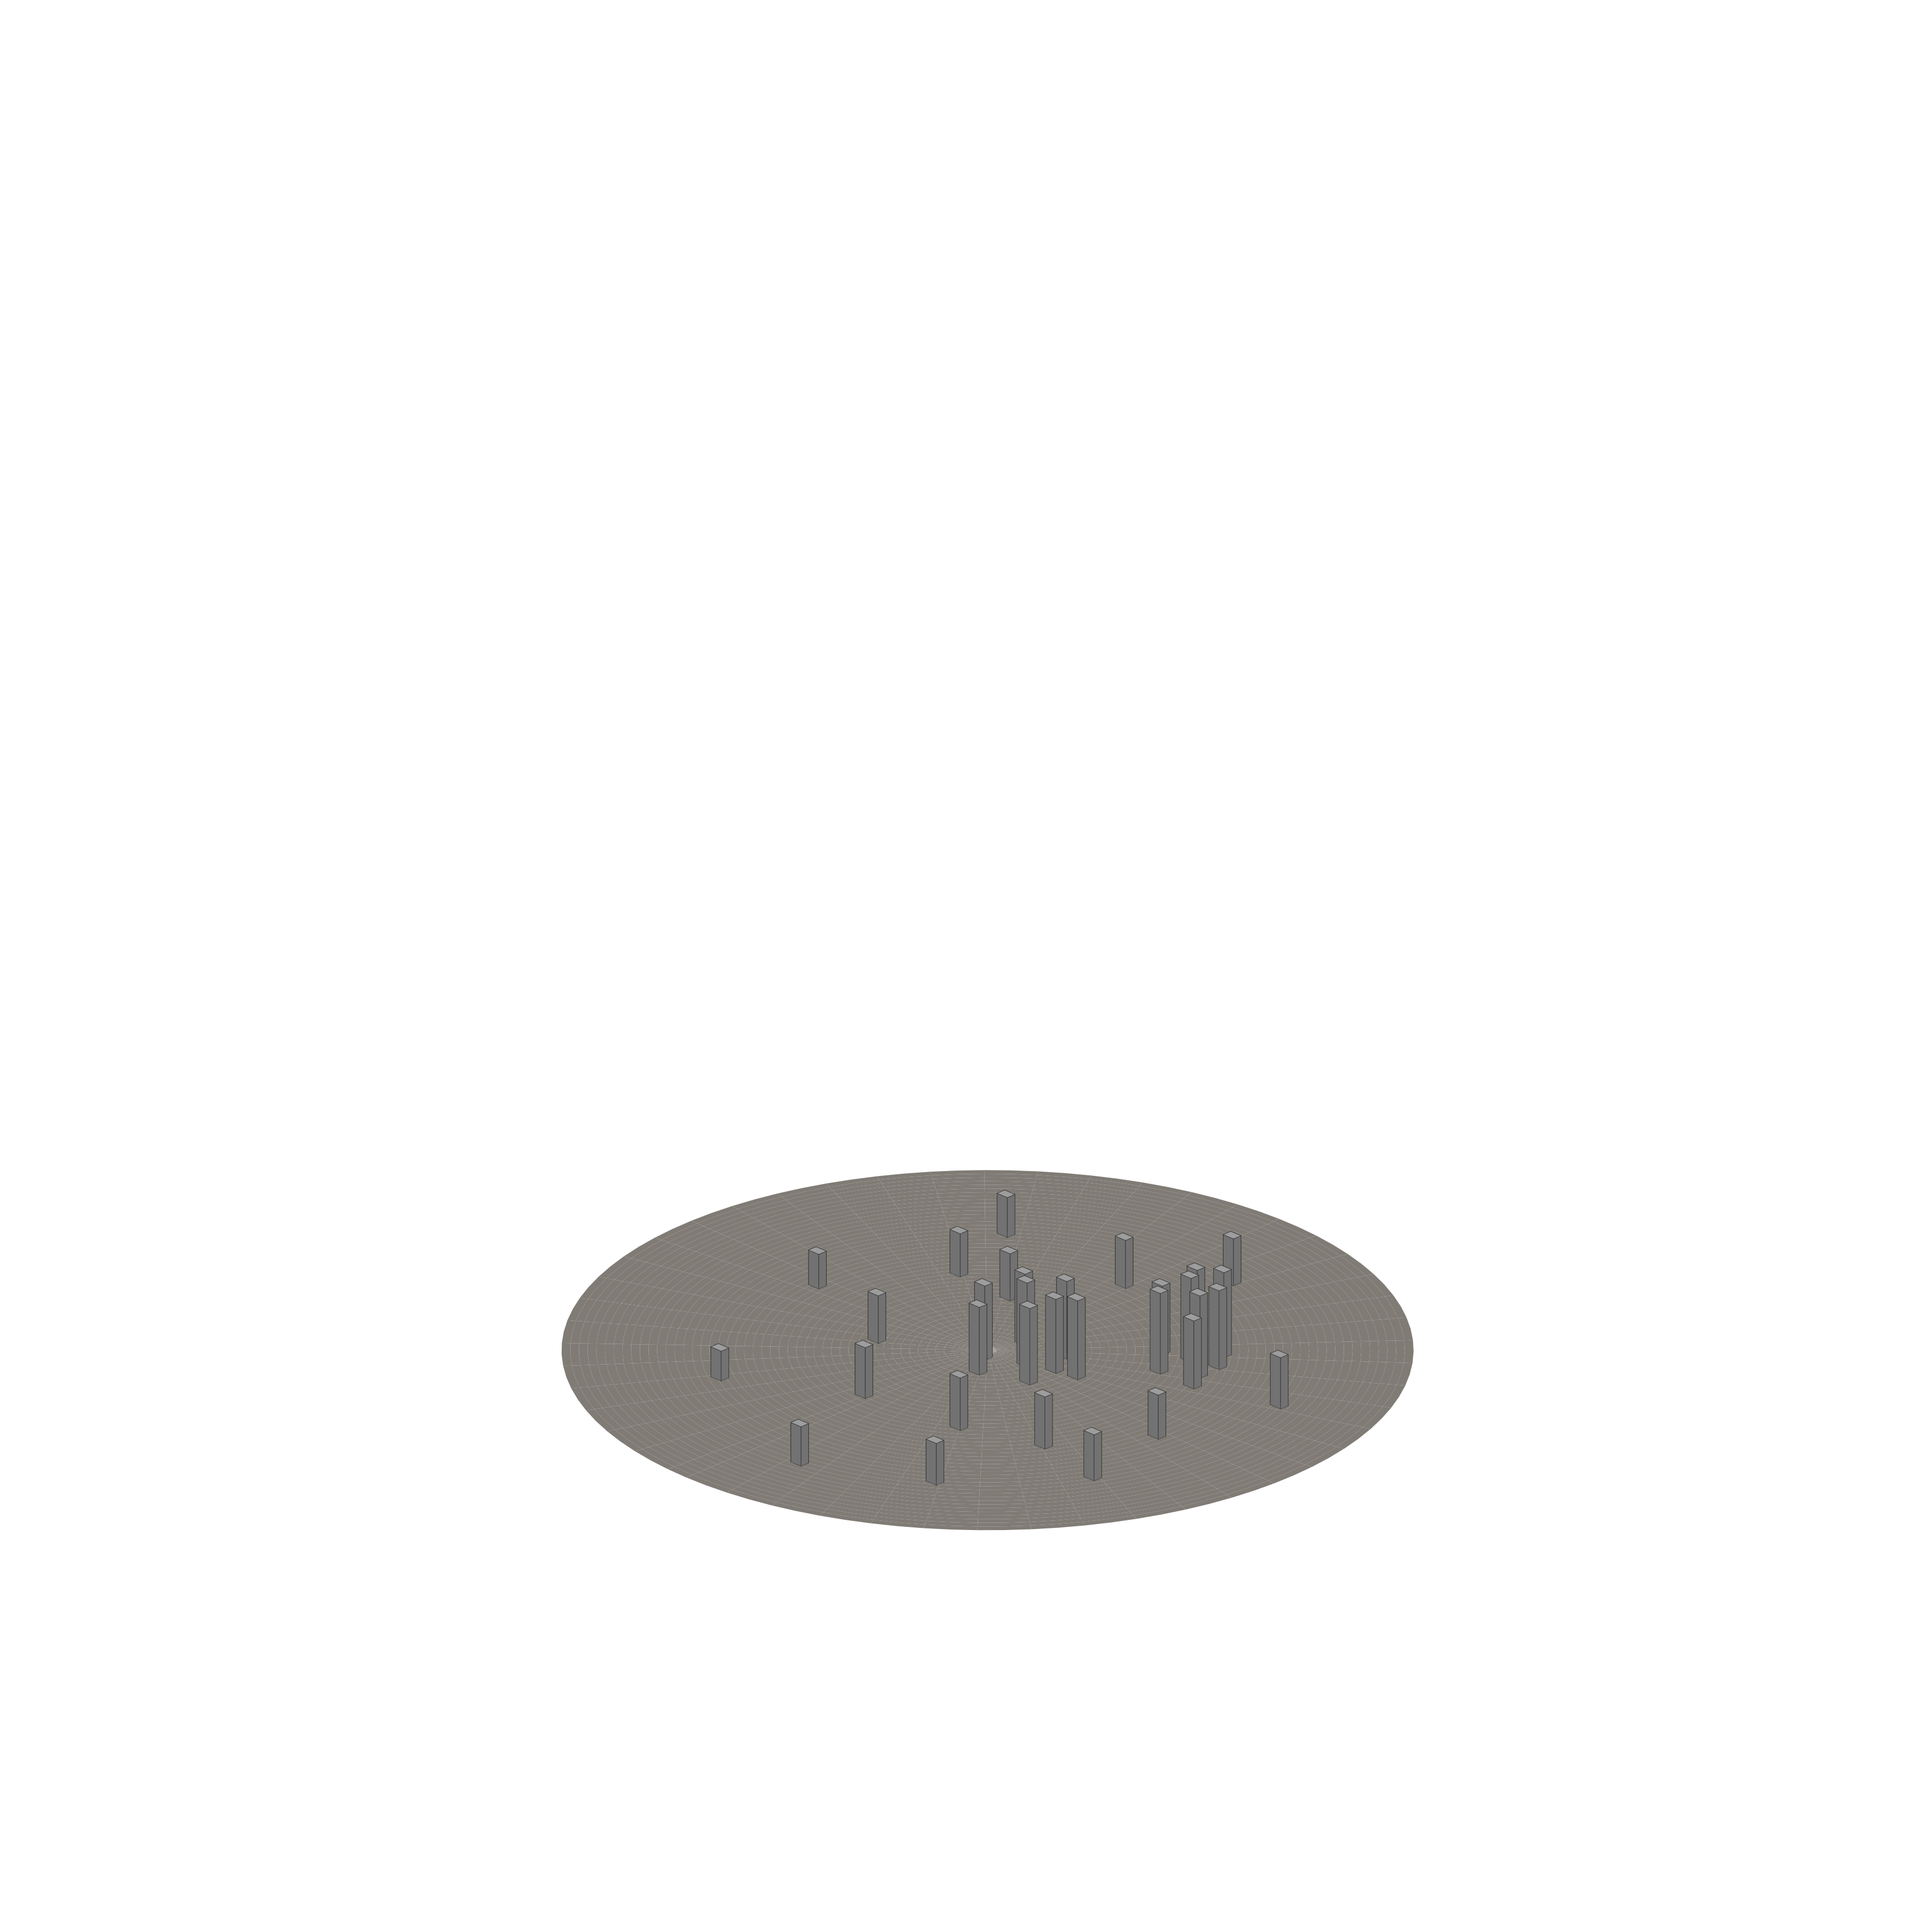
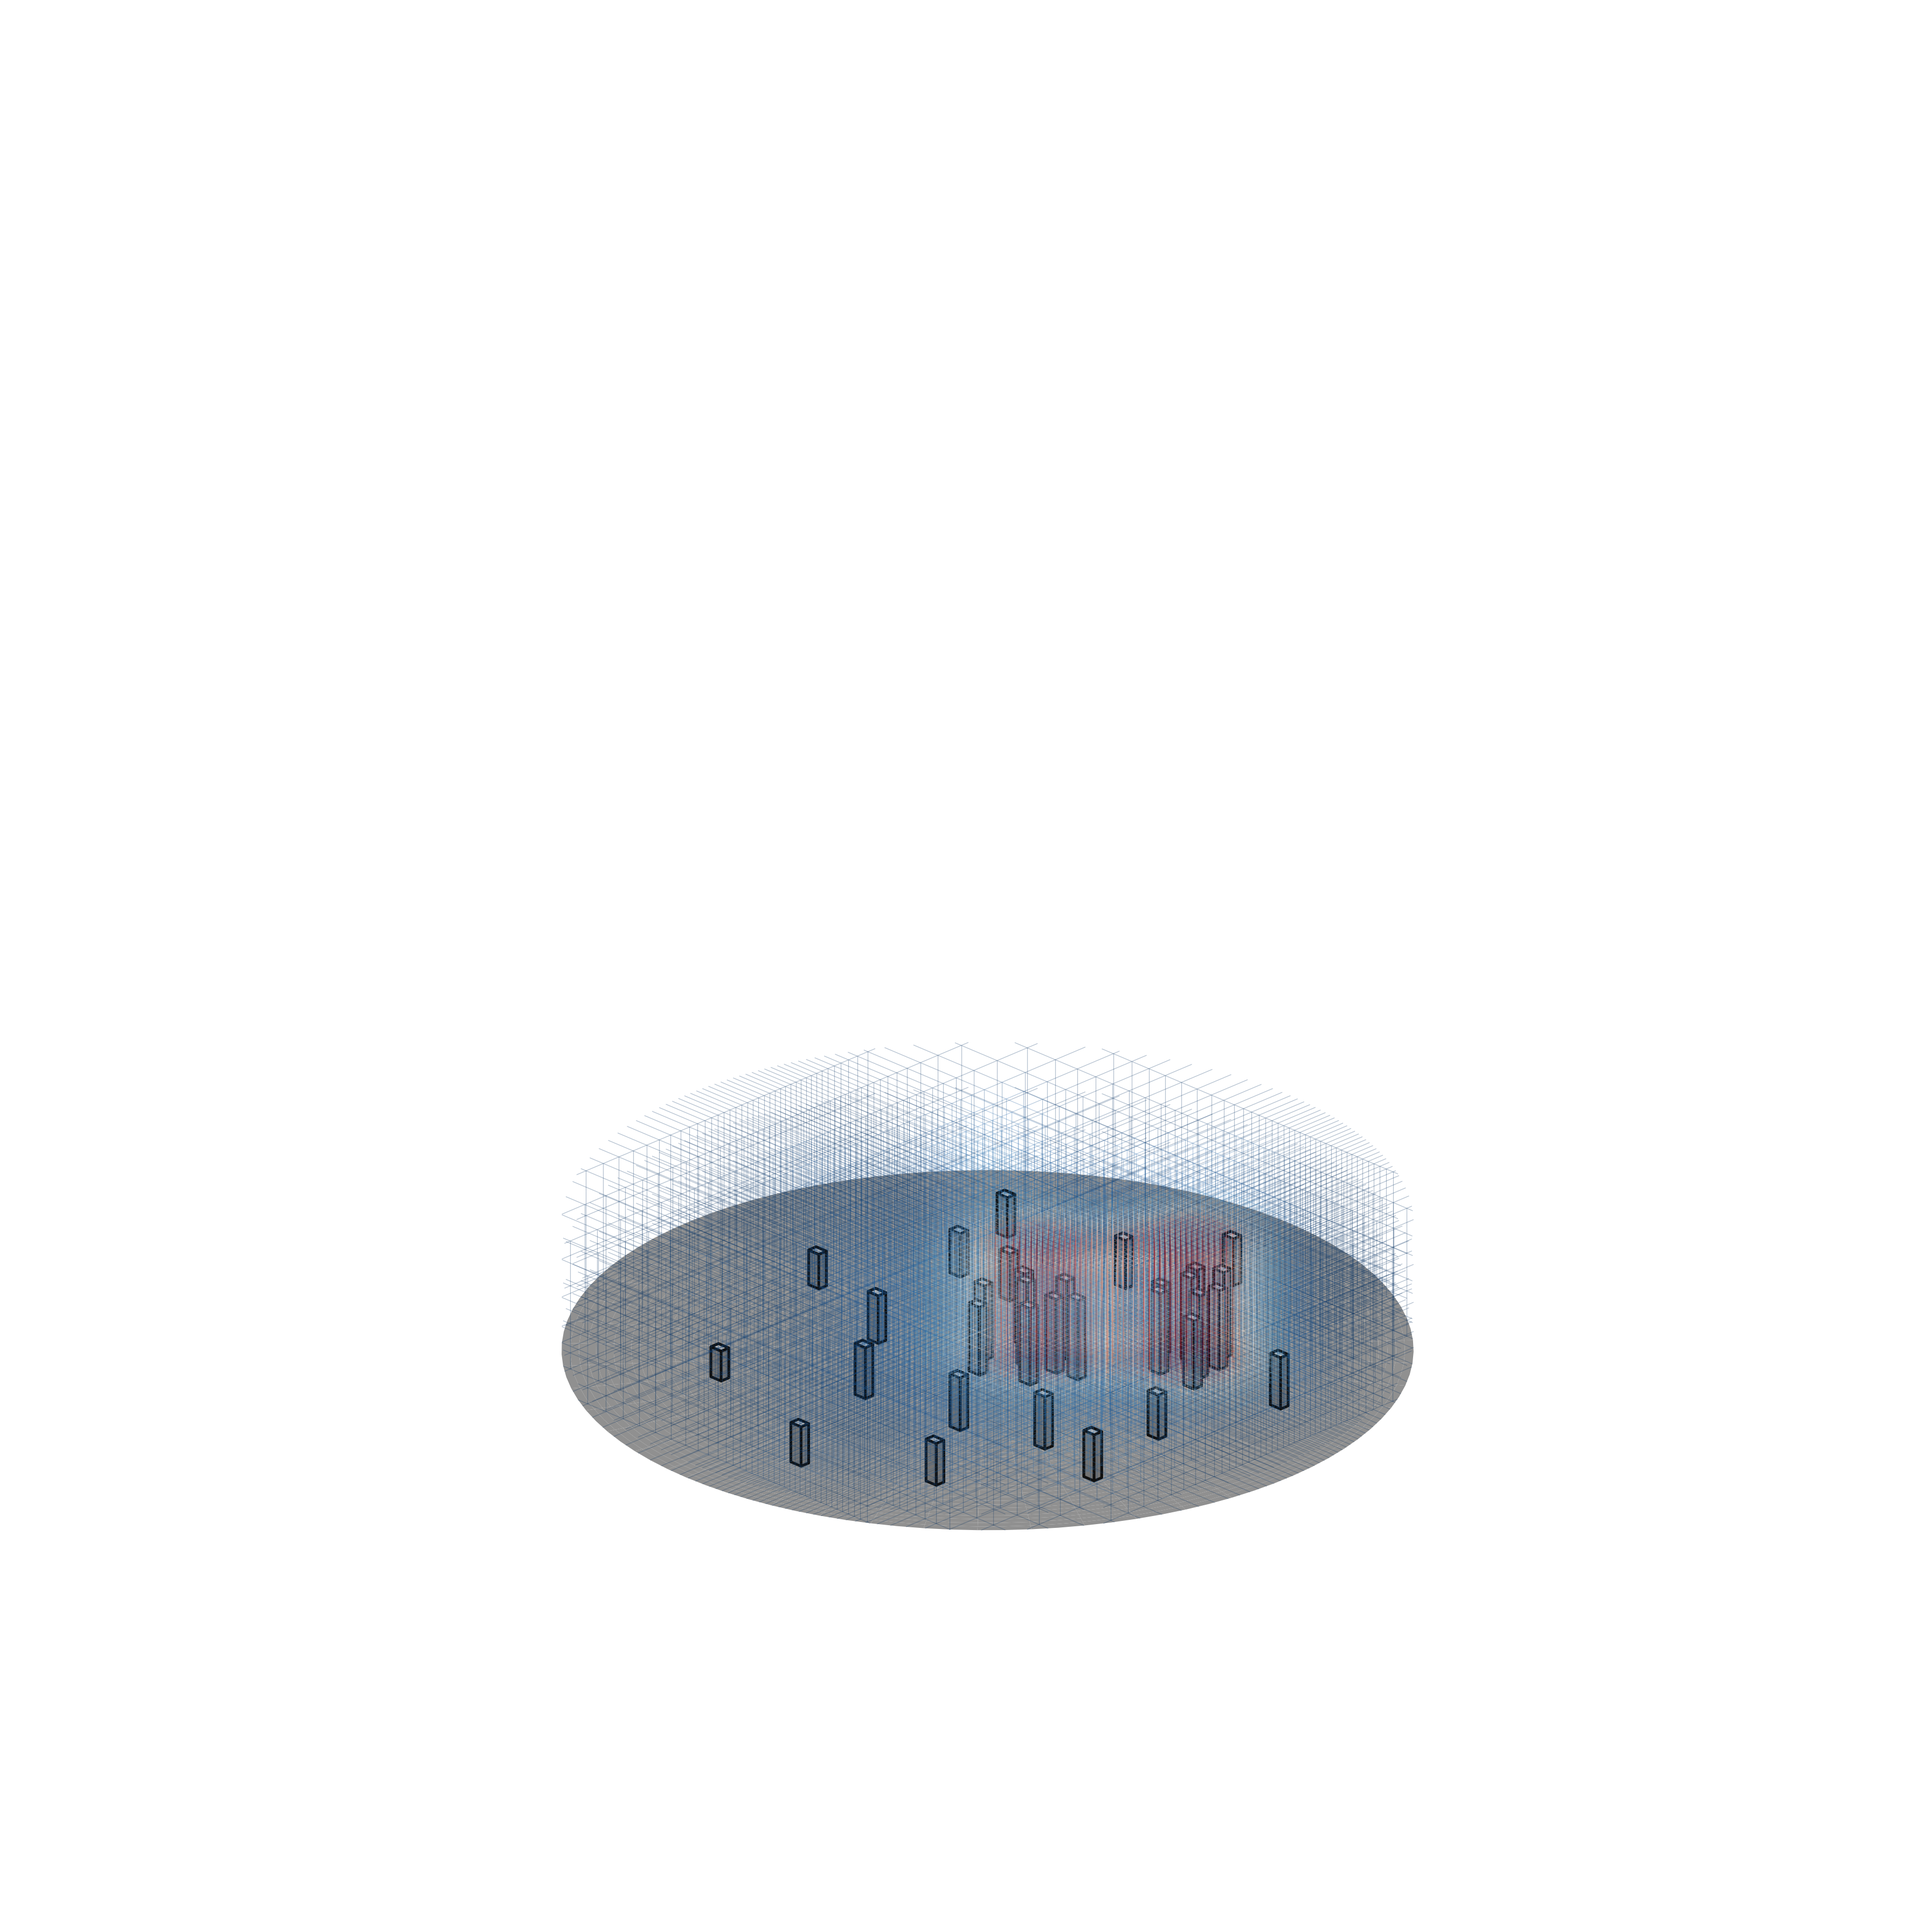
更新 .gitignore 文件，添加输出文件和配置文件的忽略规则；修改 urban_mesh_final.py，优化网格绘制逻辑并增强可视化效果；新增模型描述文档，详细说明3D城市模型与网格策略。

Changed region(s): [[0.2798, 0.5597, 0.7462, 0.8084]]

diff --git a/urban_mesh_final.py b/urban_mesh_final.py
@@ -5,7 +5,7 @@ import numpy as np
 import matplotlib.pyplot as plt
 from matplotlib import cm, colors as mcolors
 from matplotlib.patches import Circle
-from mpl_toolkits.mplot3d.art3d import Poly3DCollection
+from mpl_toolkits.mplot3d.art3d import Poly3DCollection, Line3DCollection
 
 # 配置matplotlib支持中文显示
 plt.rcParams["font.sans-serif"] = ["SimHei", "Microsoft YaHei", "WenQuanYi Micro Hei", "Arial Unicode MS"]
@@ -76,17 +76,164 @@ DEFAULT_CONFIG = {
     "view_roll": 0,
     "view_margin_ratio": 0.5,
     "ground_radius_ratio": 1.05,
-    "ground_color": "#D5CCBF",
+    "ground_color": "#F8F8F8", # 更浅的地面
     "dpi": 300,
     "figsize": (12, 12),
     "axis_off": True,
-    "use_height_color": False,
-    "building_color": "#B0B0B0",
-    "edge_color": "black",
-    "edge_alpha": 0.3,
+    "use_height_color": False, # 关闭高度着色，使用统一的高对比度颜色
+    "building_color": "#D0D0D0", # 调亮建筑颜色以便看清喵～
+    "edge_color": "#101010",
+    "edge_alpha": 1.0, # 加深轮廓
     "write_stats": True,
     "building_size": (26.0, 30.0),
+    "show_grid": True,
+    "grid_lines": 50,        # 增加总线数，配合新的密度分布，确保整体视觉效果饱满
+    "grid_levels": 5,        
+    "grid_sigma_ratio": 0.11,
 }
+
+
+def calculate_adaptive_grid_3d(positions, radius, heights, config):
+    """
+    优化后的密度映射：普通区域均匀，扎堆区域显著加密喵～
+    """
+    num_lines = config["grid_lines"]
+    num_levels = config["grid_levels"]
+    sigma = radius * config["grid_sigma_ratio"] * 1.1
+    
+    samples = np.linspace(-radius, radius, 500)
+    dens_x = np.zeros_like(samples)
+    dens_y = np.zeros_like(samples)
+    
+    if len(positions) > 0:
+        for px, py in positions:
+            dens_x += np.exp(-((samples - px)**2) / (2 * sigma**2))
+            dens_y += np.exp(-((samples - py)**2) / (2 * sigma**2))
+    
+    # --- 陡峭加密增强喵 (优化版) ---
+    # 1. 归一化并取 1.5 次幂，降低陡峭度，让过渡更平滑
+    power_val = 1.5
+    if np.max(dens_x) > 0:
+        dens_x = (dens_x / np.max(dens_x))**power_val
+    if np.max(dens_y) > 0:
+        dens_y = (dens_y / np.max(dens_y))**power_val
+    
+    # 2. 提高基础密度，避免非建筑区过于稀疏（从 0.1 提升到 0.2）
+    # 这样网格分布会更均匀，不会出现极度稀疏的"丑"区域喵～
+    base_density = 0.15
+    dens_x += base_density
+    dens_y += base_density
+    
+    # 计算 CDF
+    cdf_x = np.cumsum(dens_x)
+    cdf_x = (cdf_x - cdf_x[0]) / (cdf_x[-1] - cdf_x[0])
+    cdf_y = np.cumsum(dens_y)
+    cdf_y = (cdf_y - cdf_y[0]) / (cdf_y[-1] - cdf_y[0])
+    
+    grid_x = np.interp(np.linspace(0, 1, num_lines), cdf_x, samples)
+    grid_y = np.interp(np.linspace(0, 1, num_lines), cdf_y, samples)
+    
+    # Z 方向保持平方分布
+    max_h = np.max(heights) if len(heights) > 0 else config["h_max"]
+    z_limit = max_h * 1.5
+    grid_z = z_limit * (np.linspace(0, 1, num_levels)**1.5)
+    
+    return grid_x, grid_y, grid_z, sigma
+
+
+def draw_adaptive_grid_3d(ax, grid_x, grid_y, grid_z, positions, sigma, radius, buildings_data=None, heights=None):
+    """
+    绘制 3D 结构化自适应网格，并增加建筑遮挡剔除逻辑喵～
+    """
+    try:
+        cmap = plt.get_cmap("RdBu_r")
+    except:
+        cmap = cm.get_cmap("RdBu_r")
+    
+    def get_local_density(x, y):
+        if len(positions) == 0: return 0
+        d = 0
+        for px, py in positions:
+            dist_sq = (x - px)**2 + (y - py)**2
+            d += np.exp(-dist_sq / (2 * sigma**2))
+        return d
+
+    def is_inside_any_building(x, y, z):
+        if buildings_data is None: return False
+        margin = 6.0 # 增大遮挡剔除的边距，让建筑周围更清爽喵～ (3.0 -> 6.0)
+        for i, b in enumerate(buildings_data):
+            bx, by = b["center"]
+            bw, bd = b["size"]
+            bh = heights[i] if heights is not None else 100
+            if (bx - (bw + margin)/2 <= x <= bx + (bw + margin)/2) and \
+               (by - (bd + margin)/2 <= y <= by + (bd + margin)/2) and \
+               (0 <= z <= bh + 0.5):
+                return True
+        return False
+
+    density_samples = [get_local_density(px, py) for px, py in positions] if len(positions) > 0 else [1.0]
+    max_d = np.max(density_samples) if density_samples else 1.0
+    
+    line_segments = []
+    line_colors = []
+
+    # 1. 绘制水平面网格线
+    for z in grid_z:
+        for x in grid_x:
+            y_min, y_max = -np.sqrt(max(0, radius**2 - x**2)), np.sqrt(max(0, radius**2 - x**2))
+            if y_max <= y_min: continue
+            
+            y_steps = np.linspace(y_min, y_max, 60)
+            for i in range(len(y_steps)-1):
+                y1, y2 = y_steps[i], y_steps[i+1]
+                mid_y = (y1 + y2) / 2
+                # 建筑遮挡检查
+                if is_inside_any_building(x, mid_y, z): continue
+                
+                d = get_local_density(x, mid_y)
+                # --- 高对比度颜色增强喵 (适配优化版) ---
+                color_val = np.clip((d / max_d)**1.5 * 1.2, 0.0, 1.0)
+                line_segments.append([(x, y1, z), (x, y2, z)])
+                line_colors.append(cmap(color_val))
+
+        for y in grid_y:
+            x_min, x_max = -np.sqrt(max(0, radius**2 - y**2)), np.sqrt(max(0, radius**2 - y**2))
+            if x_max <= x_min: continue
+            
+            x_steps = np.linspace(x_min, x_max, 60)
+            for i in range(len(x_steps)-1):
+                x1, x2 = x_steps[i], x_steps[i+1]
+                mid_x = (x1 + x2) / 2
+                if is_inside_any_building(mid_x, y, z): continue
+                
+                d = get_local_density(mid_x, y)
+                # --- 高对比度颜色增强喵 (适配优化版) ---
+                color_val = np.clip((d / max_d)**1.5 * 1.2, 0.0, 1.0)
+                line_segments.append([(x1, y, z), (x2, y, z)])
+                line_colors.append(cmap(color_val))
+
+    # 2. 绘制垂直线
+    # 稍微增加采样率，但网格已经稀疏了，所以不会乱
+    for x in grid_x:
+        for y in grid_y:
+            if np.hypot(x, y) > radius: continue
+            
+            z_steps = np.linspace(grid_z[0], grid_z[-1], 20)
+            d = get_local_density(x, y)
+            # 增加颜色饱和度映射 (适配优化版)
+            color_val = np.clip((d / max_d)**1.5 * 1.2, 0.0, 1.0)
+            color = cmap(color_val)
+            for i in range(len(z_steps)-1):
+                z1, z2 = z_steps[i], z_steps[i+1]
+                if is_inside_any_building(x, y, (z1+z2)/2): continue
+                line_segments.append([(x, y, z1), (x, y, z2)])
+                line_colors.append(color)
+
+    # 显著增强线宽和不透明度
+    # 降低网格透明度，突出建筑喵～ (进一步弱化网格：lw 0.6->0.3, alpha 0.25->0.15)
+    grid_collection = Line3DCollection(line_segments, colors=line_colors, linewidths=0.3, alpha=0.3)
+    grid_collection.set_zorder(0)
+    ax.add_collection3d(grid_collection)
 
 
 def _ginput_one(fig, ax, title):
@@ -296,7 +443,7 @@ def draw_building_with_shading(
         edge_rgba = _resolve_color(edge_color, default="black")
         edge_rgba[3] = float(edge_alpha)
         edgecolors = edge_rgba
-        linewidths = 0.3
+        linewidths = 1.2 # 增加线宽，让轮廓更锐利 (0.8 -> 1.2)
     else:
         edgecolors = "none"
         linewidths = 0.0
@@ -307,8 +454,10 @@ def draw_building_with_shading(
         edgecolors=edgecolors,
         linewidths=linewidths,
     )
+    # 提高建筑的 Z 排序优先级，确保它们在网格之上
+    poly.set_zorder(10)
     if sort_zpos is not None and hasattr(poly, "set_sort_zpos"):
-        poly.set_sort_zpos(float(sort_zpos))
+        poly.set_sort_zpos(float(sort_zpos) + 1000)
     ax.add_collection3d(poly)
 
 
@@ -376,6 +525,18 @@ def build_model(config, buildings=None, circle_radius=None, circle_center=None):
 
     ground_radius = circle_radius * float(config["ground_radius_ratio"])
     draw_ground_circle(ax, center=circle_center, radius=ground_radius, color=config["ground_color"])
+
+    # --- 新增：绘制 3D 结构化自适应网格喵 ---
+    if config.get("show_grid", True):
+        print("正在生成 3D 结构化自适应网格喵...")
+        grid_x, grid_y, grid_z, sigma = calculate_adaptive_grid_3d(
+            positions, 
+            ground_radius, 
+            heights,
+            config
+        )
+        draw_adaptive_grid_3d(ax, grid_x, grid_y, grid_z, positions, sigma, ground_radius, 
+                              buildings_data=buildings, heights=heights)
 
     for i, building in enumerate(buildings):
         cx, cy = building["center"]

diff --git a/output/model_description.md b/output/model_description.md
@@ -1,0 +1,7 @@
+# 3D 城市模型与网格策略说明
+
+该图展示了一个基于真实布局构建的3D城市建筑群模型，并在其空间中生成了三维结构化流场网格。
+
+网格策略采用**自适应密度映射**，利用平滑的幂律函数（Power Law）使网格在建筑密集区域自动加密以捕捉细节，同时在空旷区域维持均匀的基础密度以确保整体连续性。
+
+此外，为了视觉清晰度，算法引入了智能**遮挡剔除机制**，在建筑周围预留了扩大的缓冲空间（Margin），使网格线自然避开建筑主体，从而清晰地呈现出城市形态与流场空间的对应关系。
